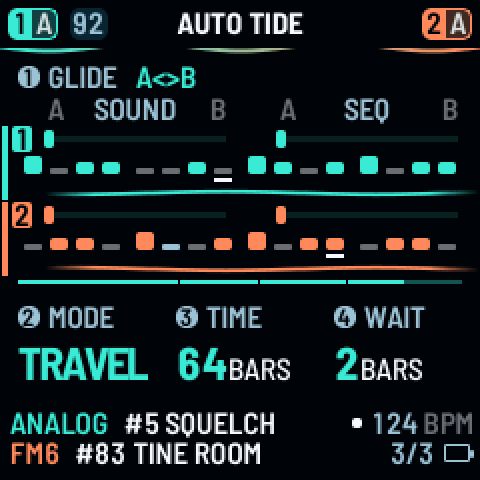
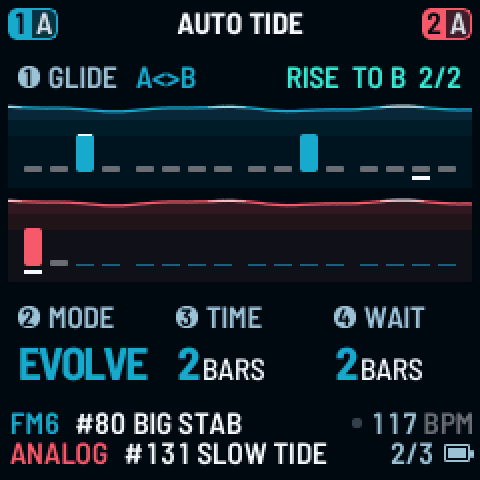
README guide: the water AUTO TIDE page (new glide GIF to B and back from current jam11, new still, text), HOME's round, M27 EMPTY

diff --git a/README.md b/README.md
@@ -12,14 +12,14 @@ TIDE for FM-1 by pssdrnk. Built on DUELL (OSCILL/R) and Felucca (Hügelton Instr
 
 - DUELL's MORPH glides a sound between two versions of itself, End A and End B, with one fader. **TIDE moves that fader for you**, in time with the music, each trip a little different, like a tide between two shores.
 - It is made for playing the FM-1 as a **background**: set a tide going, then play your drum machine, bass or sampler over it. A hand on the knob can take over at any time.
-- 26 factory multis in genre order, six STYLE presets (DUB, DEEP, MINIMAL, AMBIENT, PEAK, DRONE), a live view of the sound as waves.
+- 26 factory multis in genre order plus a blank one for playing live (M27 EMPTY), six STYLE presets (DUB, DEEP, MINIMAL, AMBIENT, PEAK, DRONE), a live view of the sound as waves.
 
-<p align="center"><img src="docs/tide/auto-tide-glide.gif" width="360" alt="The AUTO TIDE page during a glide, recorded from the emulator: both parts' SOUND and SEQ faders travel from A to B, each part's live line moves under its steps, and the status reads RISE TO B 1/4 up to 4/4"></p>
-<p align="center"><em>AUTO TIDE during one glide, recorded from the firmware running in the <a href="https://pssdrnk-cmyk.github.io/DUELL-TIDE/emu/">web emulator</a> (TIME 4 bars so the trip fits in a few seconds).</em></p>
+<p align="center"><img src="docs/tide/auto-tide-glide.gif" width="360" alt="The AUTO TIDE page during a glide to B and back, recorded from the emulator: each part's steps stand in water that rises toward B and falls back to A, and knob 1's line reads RISE TO B, RISE WAITING, RISE TO A"></p>
+<p align="center"><em>AUTO TIDE during one glide to B and back, recorded from the firmware running in the emulator (TIME 2 bars so a round trip fits in a few seconds).</em></p>
 
 ## Start in 30 seconds
 
-1. Press **HOME** until **AUTO TIDE** shows (HOME's round is MORPH, TIDE SETTINGS, AUTO TIDE).
+1. Press **HOME** until **AUTO TIDE** shows (HOME's round is MORPH, AUTO TIDE, TIDE SETTINGS; HOME opens MORPH, so one more tap).
 2. Twist **knob 1** right (to B) and press **PLAY**. The glide starts on the next bar.
 3. Play over it. **STOP** pauses the glide; PLAY goes on from there.
 
@@ -31,13 +31,13 @@ Each block says what a function does for you and which control to use. The pictu
 
 ### AUTO TIDE: the glide
 
-<img align="right" src="docs/tide/auto-tide.png" width="240" alt="AUTO TIDE with an ARC: each part is a lane with its SOUND and SEQ faders, its steps and a live line; a thin progress line at the foot shows the ARC">
+<img align="right" src="docs/tide/auto-tide.png" width="240" alt="AUTO TIDE, the water page: each part's steps stand in water, part 1 in sea glass above and part 2 in coral below; the water stands high when the part is near B. Knob 1's line reads RISE TO B, and MODE, TIME and WAIT are under the water">
 
-AUTO TIDE moves the sound and the pattern from A to B and back, bar by bar, while the music plays. It is the page you live on.
-- **Knob 1 (GLIDE):** twist right to go to B, left to go to A. It starts on the next bar. Twist two detents again while it runs and it stops where it is.
+AUTO TIDE moves the sound and the pattern from A to B and back, bar by bar, while the music plays. It is the page you live on, and it looks like a tide.
+- **What you see:** each part's steps stand in water, part 1 in sea glass above and part 2 in coral below. The water is **low at A and high at B** and rises and falls as the glide goes. While the tide waits at an end (WAIT) the water rolls slowly in moonlight; armed (waiting for PLAY) it holds still, dashed; stopped it holds still and dim. A take that is recording turns it red.
+- **Knob 1 (GLIDE):** twist right to go to B, left to go to A. It starts on the next bar. Twist two detents again while it runs and it stops where it is. Its line says where the trip is, for example `RISE  TO B 2/16`.
 - **PLAY and STOP:** the glide only moves while the transport plays. STOP pauses it; PLAY carries on from there.
 - **Knob 2 MODE:** EVOLVE walks your own sounds; TRAVEL hops through factory sounds of the same kind. **Knob 3 TIME:** bars per trip, 1 to 64. **Knob 4 WAIT:** bars to rest at each end, OFF to 16.
-- **What you see:** each part is a lane: its SOUND and SEQ faders, its 16 steps and under them a live line, the part's sound right now, in the part's colour (sea glass for part 1, coral for part 2). With an ARC on, a thin progress line at the foot marks its phases; knob 1's line says where the trip is, for example `RISE  TO B 2/16`.
 - Hold **OCT-** and turn knob 1 to go back to your original sound and pattern.
 
 More: [AUTO TIDE in the guide](docs/TIDE_GUIDE.md#2-auto-tide-the-page-you-live-on).<br clear="right">
@@ -72,7 +72,7 @@ More: [MORPH in the guide](docs/TIDE_GUIDE.md#1-morph-the-hand-page).<br clear="
 
 <img align="right" src="docs/tide/multis.png" width="240" alt="The MULTIS page: three list rows with the picked multi opened below, showing both parts' sound names, ARP or SEQ and their first 16 steps">
 
-The FM-1 has two **parts**, each a sound with its own pattern. A **multi** holds both parts, their effects, arps, patterns, mode and morph settings. There are 26 factory multis, in genre order (dub, house, techno, acid, electro, ambient, and two drones), and you can save over any of them.
+The FM-1 has two **parts**, each a sound with its own pattern. A **multi** holds both parts, their effects, arps, patterns, mode and morph settings. There are 26 factory multis, in genre order (dub, house, techno, acid, electro, ambient, and two drones), and a blank one after them, **M27 EMPTY**, for playing live. You can save over the factory multis.
 - **Load one:** short-press **SAVE** (it opens MULTIS in LAYER), turn **knob 1** to the multi, press **OCT+**. The preview shows both parts' sounds and their first 16 steps before you load.
 - **ALGORITHM** picks PART 1, both parts (the middle) or PART 2 on the HOME pages. The middle plays the mode set by the PLAY MODE row: **LAYER** (both parts on every key), **STEREO** or **DUEL** (part 1 left, part 2 right). **SPLIT** divides the keys between the parts; **XFADE** crossfades them by velocity in LAYER.
 
@@ -117,7 +117,7 @@ Not happy with the answer? Hold **SEQ** and press **C4: SWELL** for a whole new 
 
 <img align="right" src="docs/tide/save.png" width="240" alt="The SAVE confirm dialog: OVERWRITE a patch slot, with OCT- NO and OCT+ YES">
 
-**Hold SAVE** on a page to save what it edits: a patch, a pattern or a multi; the dialog offers the picked slot over itself, **OCT+** says yes, **OCT-** no. A short press opens the SAVE page that fits where you are (PATTERNS from a sequencer page, otherwise MULTIS in LAYER and PATCHES in DUEL and STEREO); SELECT moves between PATCHES, PATTERNS, MULTIS and TOOLS. Saving needs the transport stopped. SAVE keeps the sound as you loaded it, not the one TRAVEL moved it to: to keep what you hear, use KEEP first. The last four patch and pattern slots are empty USER slots. [Back up](docs/RECOVERY.md) before you update.<br clear="right">
+**Hold SAVE** on a page to save what it edits: a patch, a pattern or a multi; the dialog offers the picked slot over itself, **OCT+** says yes, **OCT-** no. A short press opens the SAVE page that fits where you are (PATTERNS from a sequencer page, otherwise MULTIS in LAYER and PATCHES in DUEL and STEREO); SELECT moves between PATCHES, PATTERNS, MULTIS and TOOLS. Saving needs the transport stopped. SAVE keeps the sound as you loaded it, not the one TRAVEL moved it to: to keep what you hear, use KEEP first. Every factory sound has its own slot and can be saved over (RESTORE brings the factory sound back); USER 1 to 4 start empty. [Back up](docs/RECOVERY.md) before you update.<br clear="right">
 
 ## Install
 

diff --git a/docs/TIDE_GUIDE.md b/docs/TIDE_GUIDE.md
@@ -10,7 +10,7 @@ Values marked *start* are suggestions for dub and house techno backgrounds, not 
 
 Every sound has two ends, **A** (your sound) and **B** (a variation of it), and a fader between them. TIDE moves that fader by itself, bar by bar, while the music plays, and also moves the pattern the same way. Over minutes the part evolves; nothing needs your hands. You can touch it whenever you like.
 
-HOME's round, one tap of **HOME** each: **MORPH → TIDE SETTINGS → AUTO TIDE**. **ALGORITHM** picks PART 1, both parts or PART 2 on all of them.
+HOME's round, one tap of **HOME** each: **MORPH → AUTO TIDE → TIDE SETTINGS** (HOME opens MORPH). **ALGORITHM** picks PART 1, both parts or PART 2 on all of them.
 
 **Header and footer.** Each HOME page is titled by its name (MORPH, TIDE SETTINGS, AUTO TIDE). A part's capsule shows its number and its letter, `1 A`, with no voices count. The tempo is on the footer's first line, `117 BPM`, right-aligned above the page number and the battery; the second line holds part 2's name, whole.
 
@@ -65,15 +65,14 @@ These are the sound's own settings: they record into the pattern with REC armed,
 
 ## 2. AUTO TIDE (the page you live on)
 
-The page always shows both parts, each as one lane:
+The page is the water page: it always shows both parts, part 1 above part 2, and each part's steps stand in water.
 
-- its **SOUND** and **SEQ** faders with the glide's path, in two columns
-- its 16 steps as they play, under the faders, with a small bar beside them for the selected part
-- under its steps a live line: the part's sound right now, the MORPH page's front wave, in the part's colour
-- with an ARC on, a thin progress line at the foot of the picture, its phases marked by small gaps
-- the status on knob 1's line, for example `RISE  TO B 2/16`
+- the water is **low at A and high at B**: it rises toward B as the glide goes and falls back toward A
+- the surface is a gentle swell with three flat tones, darker lower down; in WAIT (slack water) it rolls at half the pace in moonlight; armed it holds still and dashed, stopped still and dim, and a take is red
+- a step is a bar standing in the water, 6 to 32 px tall by its pitch
+- the status is on knob 1's line, for example `RISE  TO B 2/16`
 
-The part the knobs act on (the selected part) is drawn in full colour with its number in a filled pill and a small bar beside its steps; the other part is dimmed.
+The page has no SOUND / SEQ rails, part numbers, live lines, ARC line or loop bar cells. The part the knobs act on is drawn in full colour; the other part is dimmed.
 
 In the steps:
 
@@ -101,7 +100,7 @@ The glide only moves while the transport plays. **STOP** pauses it; **PLAY** car
 
 STYLE DUB, DEEP, MINIMAL and DRONE use EVOLVE; AMBIENT and PEAK use TRAVEL. A saved setup with an old MODE of ONCE, LOOP or DRIFT opens as EVOLVE, and WANDER as EVOLVE too; JOURNEY opens as TRAVEL. On the AUTO TIDE page the top line reads EVOLVING TO B or TRAVEL TO B; ARC's hint reads NEEDS EVOLVE, and "DROP NEEDS EVOLVE/TRAVEL" when it cannot act.
 
-**The status line, in full.** `EVOLVING TO B   BAR 3/16` (with an ARC running, knob 1's line names its phase first, for example `RISE  TO B 2/16`; the arc itself is the thin progress line at the foot of the picture); `TRAVEL TO B` in TRAVEL; `WAITING  1/2` while the trip is held; `GLIDE ON THE NEXT BAR` or `GLIDE STARTS WITH PLAY` before the first trip; `PAUSED: PLAY GOES ON`; `HAND  BACK IN n BARS` after your hand on the fader. On the MORPH page, knob 1's line shows the trip in short: `TO B 1/16` (the fader's number, then the bar, with no mode word).
+**The status line, in full.** `EVOLVING TO B   BAR 3/16` (with an ARC running, knob 1's line names its phase first, for example `RISE  TO B 2/16`; the arc runs without a picture of its own: its phase is the word on knob 1's line); `TRAVEL TO B` in TRAVEL; `WAITING  1/2` while the trip is held; `GLIDE ON THE NEXT BAR` or `GLIDE STARTS WITH PLAY` before the first trip; `PAUSED: PLAY GOES ON`; `HAND  BACK IN n BARS` after your hand on the fader. On the MORPH page, knob 1's line shows the trip in short: `TO B 1/16` (the fader's number, then the bar, with no mode word).
 
 **COLR LFO.** GLO's page 6 of 13 is COLR LFO, one knob (COLOR LFO, 0 to 15): a slow 0.25 Hz wave that swings the delay's colour, so the repeats breathe. 0 is off; DUB BASIC uses 5, DUB CHORD 2, and a multi stores the value.
 

diff --git a/docs/QUICKSTART.md b/docs/QUICKSTART.md
@@ -110,7 +110,7 @@ It works in STEREO and LAYER, and in DUEL its card is not shown.
   - MIDI program change n loads slot n (bank 2: the places from #129, program 0 is #129 and program 42 is #171).
   - Saving needs the transport stopped.
 - **PATTERNS**: 32 named, overwritable step patterns (P01 to P32). With TIDE P29 to P32 are USER slots (empty until saved); the default patterns they stand in for stay listed after them, read-only. The picked entry is opened with a preview of its 16 steps (or NO SEQUENCE). The page always opens with LOAD picked: knob 1 to the pattern, OCT+ loads it (knob 3 picks SAVE instead). **To save a pattern**, hold SAVE on the PATTERNS page: the picked slot is offered over itself ("SAVE OVER ... ?"), OCT+ writes it and OCT- cancels. Saving does not need STOP: the pattern is kept at once, and it goes to flash when nothing plays.
-- **MULTIS**: 26 slots (M01 to M26) that hold both parts, effects, arps, patterns, mode and morph settings. The page always opens with LOAD picked.
+- **MULTIS**: 27 slots (M01 to M26, and M27 EMPTY, a blank template) that hold both parts, effects, arps, patterns, mode and morph settings. The page always opens with LOAD picked.
 
   - **Factory scenes (M01 to M16):** all music, a curated programme with a genre each. In genre order: dub (M01 to M03), house (M04 to M08), tech (M09 to M13: Detroit, soul, minimal, hypnotic, cinematic) and acid (M14 to M16). All sixteen are free to overwrite. The former STRESS TEST is a test scene only.
   - **TIDE built-in scenes (M17 to M26):** with TIDE the list goes on with acid (M17 ACID TWO 303, M18 ACID LINES), electro (M19 ELEC ROBOT, M20 ELEC DEEPSEA, M21 ELEC WARPED), ambient (M22 AMB TECHNO, M23 AMB BERLIN, M24 AMB LOOPS) and two drones built into the firmware, M25 AMB DUNEHORN and M26 AMB GROWL (a deep growling drone). They load and play like the others. TIDE plays the two drones as STYLE DRONE (hold a chord around C3, PLAY with AUTO TIDE on). Since b10 every slot M01 to M26 can be saved over, renamed and erased like the others; ERASE brings the built-in multi back. The drones play as STYLE DRONE only while the slot still holds the built-in drone.
